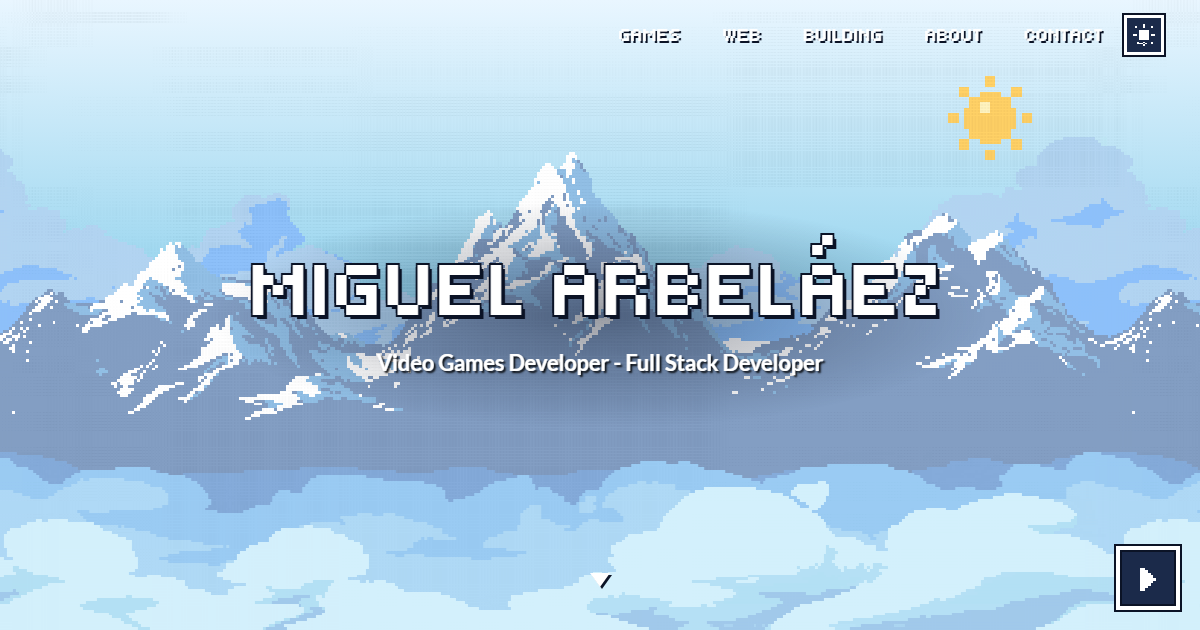
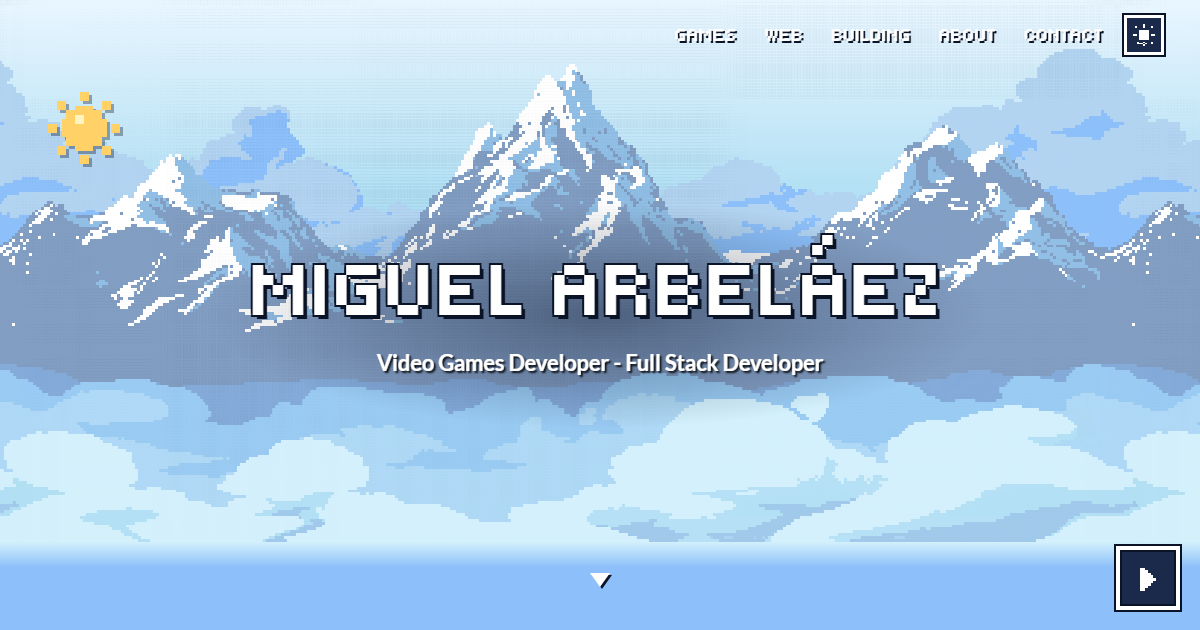
Sun and moon as back-to-top, finer page clouds, soft horizon under the hero
The hero's cloud layers now sit above a short horizon band that fades
into the page colour, so the parallax never shows a cut through a
cloud. Buttons show a white arrow at rest, nav items turn yellow on
hover with no gutter. LoR Stats Bot gets its own card.

diff --git a/css/style.css b/css/style.css
@@ -83,7 +83,7 @@ button { font: inherit; color: inherit; cursor: pointer; background: none; borde
   border: 3px solid var(--frame); box-shadow: 0 0 0 2px var(--box-edge), inset 0 0 0 2px var(--box-edge);
   transition: background-color var(--t) ease, box-shadow var(--t) ease;
 }
-.btn::before { content: ""; width: 0; height: 0; border-top: 7px solid transparent; border-bottom: 7px solid transparent; border-left: 10px solid transparent; }
+.btn::before { content: ""; width: 0; height: 0; border-top: 7px solid transparent; border-bottom: 7px solid transparent; border-left: 10px solid var(--frame); }
 .btn:hover::before, .btn:focus-visible::before { border-left-color: var(--accent); }
 .btn:hover { color: var(--accent); }
 
@@ -98,8 +98,7 @@ button { font: inherit; color: inherit; cursor: pointer; background: none; borde
 .nav.is-scrolled { background: var(--box); box-shadow: 0 4px 0 0 var(--frame), 0 6px 0 0 var(--box-edge); }
 .nav__links { display: flex; flex-wrap: wrap; gap: clamp(10px, 2vw, 26px); }
 .nav__links a { color: #fff; text-decoration: none; font-size: 1.2rem; padding: 6px 2px; text-shadow: 2px 2px 0 var(--box-edge); }
-.nav__links a::before { content: ""; display: inline-block; width: 0; height: 0; margin-right: 6px; vertical-align: 1px; border-top: 6px solid transparent; border-bottom: 6px solid transparent; border-left: 8px solid transparent; }
-.nav__links a:hover::before, .nav__links a.is-active::before { border-left-color: var(--accent); }
+.nav__links a:hover, .nav__links a.is-active { color: var(--accent); }
 .nav__theme { display: grid; place-items: center; width: 40px; height: 40px; color: #fff; background: var(--box); border: 3px solid var(--frame); box-shadow: 0 0 0 2px var(--box-edge); }
 .nav__theme svg { fill: currentColor; }
 .ico-moon, .ico-pause { display: none; }
@@ -110,8 +109,7 @@ button { font: inherit; color: inherit; cursor: pointer; background: none; borde
 @media (max-width: 560px) {
   .nav { padding: 10px 10px; gap: 8px; justify-content: space-between; }
   .nav__links { gap: 7px; }
-  .nav__links a { font-size: 0.82rem; padding: 6px 0; }
-  .nav__links a::before { margin-right: 3px; border-top-width: 5px; border-bottom-width: 5px; border-left-width: 6px; }
+  .nav__links a { font-size: 0.85rem; padding: 6px 0; }
 }
 
 /* ───────── hero ───────── */
@@ -139,14 +137,18 @@ button { font: inherit; color: inherit; cursor: pointer; background: none; borde
     radial-gradient(1.5px 1.5px at 62% 44%, #fff 50%, transparent 51%),
     radial-gradient(2px 2px at 20% 6%, #fff 50%, transparent 51%);
 }
-/* sun and moon: the sun sets and the moon rises when the theme switches */
-.sun, .moon { position: absolute; top: 12%; right: 14%; width: clamp(56px, 7vw, 96px); height: auto; transition: transform var(--t) ease-in-out, opacity var(--t) ease-in-out; image-rendering: pixelated; }
+/* sun and moon: fixed in the top left sky, always a way back to the top.
+   The sun sets and the moon rises when the theme switches. */
+.celestial { position: fixed; top: 92px; left: clamp(16px, 4vw, 56px); z-index: 45; width: clamp(52px, 6vw, 84px); aspect-ratio: 1; display: block; transition: transform 200ms ease; }
+.celestial:hover { transform: translateY(-4px); }
+.celestial svg { position: absolute; inset: 0; width: 100%; height: 100%; transition: transform var(--t) ease-in-out, opacity var(--t) ease-in-out; image-rendering: pixelated; filter: drop-shadow(3px 3px 0 rgba(11, 19, 38, 0.35)); }
 .sun  { transform: translateY(calc(var(--night) * 160px)); opacity: calc(1 - var(--night)); }
 .moon { transform: translateY(calc((1 - var(--night)) * -160px)); opacity: var(--night); }
+@media (max-width: 560px) { .celestial { top: 110px; } }
 
 .layer { position: absolute; inset: 0; will-change: transform; filter: var(--layer-filter); transition: filter var(--t) ease; }
 .layer .tile {
-  position: absolute; left: 0; bottom: 0; height: 100%;
+  position: absolute; left: 0; bottom: 14%; height: 100%;
   width: calc(100% + var(--tile, 1920px));
   background-repeat: repeat-x; background-position: left bottom; background-size: auto 100%;
   image-rendering: pixelated;
@@ -157,6 +159,7 @@ button { font: inherit; color: inherit; cursor: pointer; background: none; borde
 .layer--c3 .tile    { background-image: url("../assets/img/hero/clouds3.webp"); --drift: 150s; }
 .layer--c2 .tile    { background-image: url("../assets/img/hero/clouds2.webp"); --drift: 110s; }
 .layer--c1 .tile    { background-image: url("../assets/img/hero/clouds1.webp"); --drift: 80s; }
+.layer--c1::after { content: ""; position: absolute; left: 0; right: 0; top: 86%; height: 80%; background: linear-gradient(#d3f0fc, #8dc0fa 5%); } /* day colours: the layer's night filter darkens them to the night page colour */
 @keyframes drift { to { transform: translateX(calc(-1 * var(--tile, 1920px))); } }
 
 /* a soft dark halo behind the title so it reads on the pale sky */
@@ -283,8 +286,6 @@ button { font: inherit; color: inherit; cursor: pointer; background: none; borde
 .footer { padding: 24px 16px 40px; text-align: center; font-family: var(--pixel); font-size: 1.1rem; color: #fff; text-shadow: 2px 2px 0 var(--box-edge); }
 .footer p { margin: 0; }
 
-.to-top { position: fixed; right: 16px; bottom: 16px; z-index: 40; display: grid; place-items: center; width: 44px; height: 44px; background: var(--box); border: 3px solid var(--frame); box-shadow: 0 0 0 2px var(--box-edge); }
-.to-top[hidden] { display: none; }
 
 /* ───────── motion ───────── */
 @media (prefers-reduced-motion: reduce) {

diff --git a/index.html b/index.html
@@ -53,13 +53,11 @@
     <div class="sky" aria-hidden="true">
       <div class="sky__night"></div>
       <div class="stars"></div>
-      <svg class="sun" viewBox="0 0 16 16" shape-rendering="crispEdges"><path fill="#ffd166" d="M7 0h2v2H7zM0 7h2v2H0zM14 7h2v2h-2zM7 14h2v2H7zM2 2h2v2H2zM12 2h2v2h-2zM2 12h2v2H2zM12 12h2v2h-2zM6 3h4v1h2v2h1v4h-1v2h-2v1H6v-1H4v-2H3V6h1V4h2z"/><path fill="#fff3bf" d="M6 5h2v2H6z"/></svg>
-      <svg class="moon" viewBox="0 0 16 16" shape-rendering="crispEdges"><path fill="#f3f6ff" d="M6 2h5v1H8v1H7v2H6v4h1v2h1v1h3v1H6v-1H4v-1H3v-2H2V6h1V4h1V3h2z"/><path fill="#c9d3ea" d="M5 7h1v3H5zM7 11h2v1H7z"/></svg>
-      <div class="layer layer--bg"    data-depth="0.05"><div class="tile"></div></div>
-      <div class="layer layer--mount" data-depth="0.12"><div class="tile"></div></div>
-      <div class="layer layer--c3"    data-depth="0.22"><div class="tile"></div></div>
-      <div class="layer layer--c2"    data-depth="0.32"><div class="tile"></div></div>
-      <div class="layer layer--c1"    data-depth="0.45"><div class="tile"></div></div>
+      <div class="layer layer--bg"    data-depth="0.04"><div class="tile"></div></div>
+      <div class="layer layer--mount" data-depth="0.08"><div class="tile"></div></div>
+      <div class="layer layer--c3"    data-depth="0.10"><div class="tile"></div></div>
+      <div class="layer layer--c2"    data-depth="0.11"><div class="tile"></div></div>
+      <div class="layer layer--c1"    data-depth="0.13"><div class="tile"></div></div>
     </div>
     <div class="masthead">
       <h1 class="masthead__heading">Miguel Arbeláez</h1>
@@ -78,7 +76,7 @@
     <div class="backdrop__layer backdrop__layer--near" data-depth="0.14"><div class="backdrop__tile"></div></div>
   </div>
 
-  <main class="page">
+  <main class="page" id="page">
     <!-- ───────── GAMES ───────── -->
     <section class="section" id="games" data-section="games">
       <h2 class="section__title"><span>Games</span></h2>
@@ -153,7 +151,11 @@
     </footer>
   </main>
 
-  <a class="to-top" id="to-top" href="#top" aria-label="Back to top" hidden><span class="cursor cursor--up"></span></a>
+  <!-- the sun by day, the moon by night; always in the sky, and a way back to the top -->
+  <a class="celestial" id="celestial" href="#top" title="Back to top" aria-label="Back to top">
+    <svg class="sun" viewBox="0 0 16 16" shape-rendering="crispEdges"><path fill="#ffd166" d="M7 0h2v2H7zM0 7h2v2H0zM14 7h2v2h-2zM7 14h2v2H7zM2 2h2v2H2zM12 2h2v2h-2zM2 12h2v2H2zM12 12h2v2h-2zM6 3h4v1h2v2h1v4h-1v2h-2v1H6v-1H4v-2H3V6h1V4h2z"/><path fill="#fff3bf" d="M6 5h2v2H6z"/></svg>
+    <svg class="moon" viewBox="0 0 16 16" shape-rendering="crispEdges"><path fill="#f3f6ff" d="M6 2h5v1H8v1H7v2H6v4h1v2h1v1h3v1H6v-1H4v-1H3v-2H2V6h1V4h1V3h2z"/><path fill="#c9d3ea" d="M5 7h1v3H5zM7 11h2v1H7z"/></svg>
+  </a>
 
   <!-- ───────── PROJECT WINDOW ───────── -->
   <dialog class="modal" id="modal" aria-labelledby="modal-title">

diff --git a/js/projects.js b/js/projects.js
@@ -169,11 +169,21 @@ window.PROJECTS = [
     id: "lorstats", section: "web", title: "LoR Stats", tag: "2020 - 2022",
     intro: "LoR Stats is a match history and stats tracker for Legends of Runeterra.",
     text: [
-      "Look up a player and browse their matches, decks and win rates. Built with Python, Flask and Firebase, officially associated with Riot Games, with a companion Discord bot distributed via top.gg."
+      "Look up a player and browse their matches, decks and win rates. Built with Python, Flask and Firebase, officially associated with Riot Games."
     ],
     genre: "Web, Stats", role: "Programmer",
     thumb: "assets/img/projects/lorstats-thumb.webp",
     shots: ["assets/img/projects/lorstats-1.webp", "assets/img/projects/lorstats-2.webp", "assets/img/projects/lorstats-3.webp"],
+    links: []
+  },
+  {
+    id: "lorbot", section: "web", title: "LoR Stats Bot", tag: "2020 - 2022",
+    intro: "LoR Stats Bot is the Discord companion of LoR Stats.",
+    text: [
+      "Check your Legends of Runeterra match history and stats without leaving Discord. Written in Python and distributed through top.gg."
+    ],
+    genre: "Discord Bot, Stats", role: "Programmer",
+    shots: [],
     links: []
   },
   {

diff --git a/js/main.js b/js/main.js
@@ -118,6 +118,9 @@
   function parallax() {
     const y = scrollY;
     if (y <= hero.offsetHeight) {
+      // Layers lag behind the page by their depth. Their tiles sit 14% above the hero's
+      // bottom edge and the nearest layer fills that gap with a soft horizon into the page colour,
+      // so the edge only ever cuts through flat colour, never through a cloud.
       heroLayers.forEach((l) => { l.style.transform = `translate3d(0, ${Math.round(y * l.dataset.depth)}px, 0)`; });
     }
     skyLayers.forEach((l) => { l.style.transform = `translate3d(0, ${-Math.round(y * l.dataset.depth) % 1080}px, 0)`; });
@@ -127,12 +130,10 @@
 
   /* ───────── nav, back to top ───────── */
   const nav = $("#nav");
-  const toTop = $("#to-top");
   const navLinks = $$(".nav__links a");
   let ticking = false;
   addEventListener("scroll", () => {
     nav.classList.toggle("is-scrolled", scrollY > 40);
-    toTop.hidden = scrollY < hero.offsetHeight;
     if (reduceMotion || ticking) return;
     ticking = true;
     requestAnimationFrame(() => { parallax(); ticking = false; });
